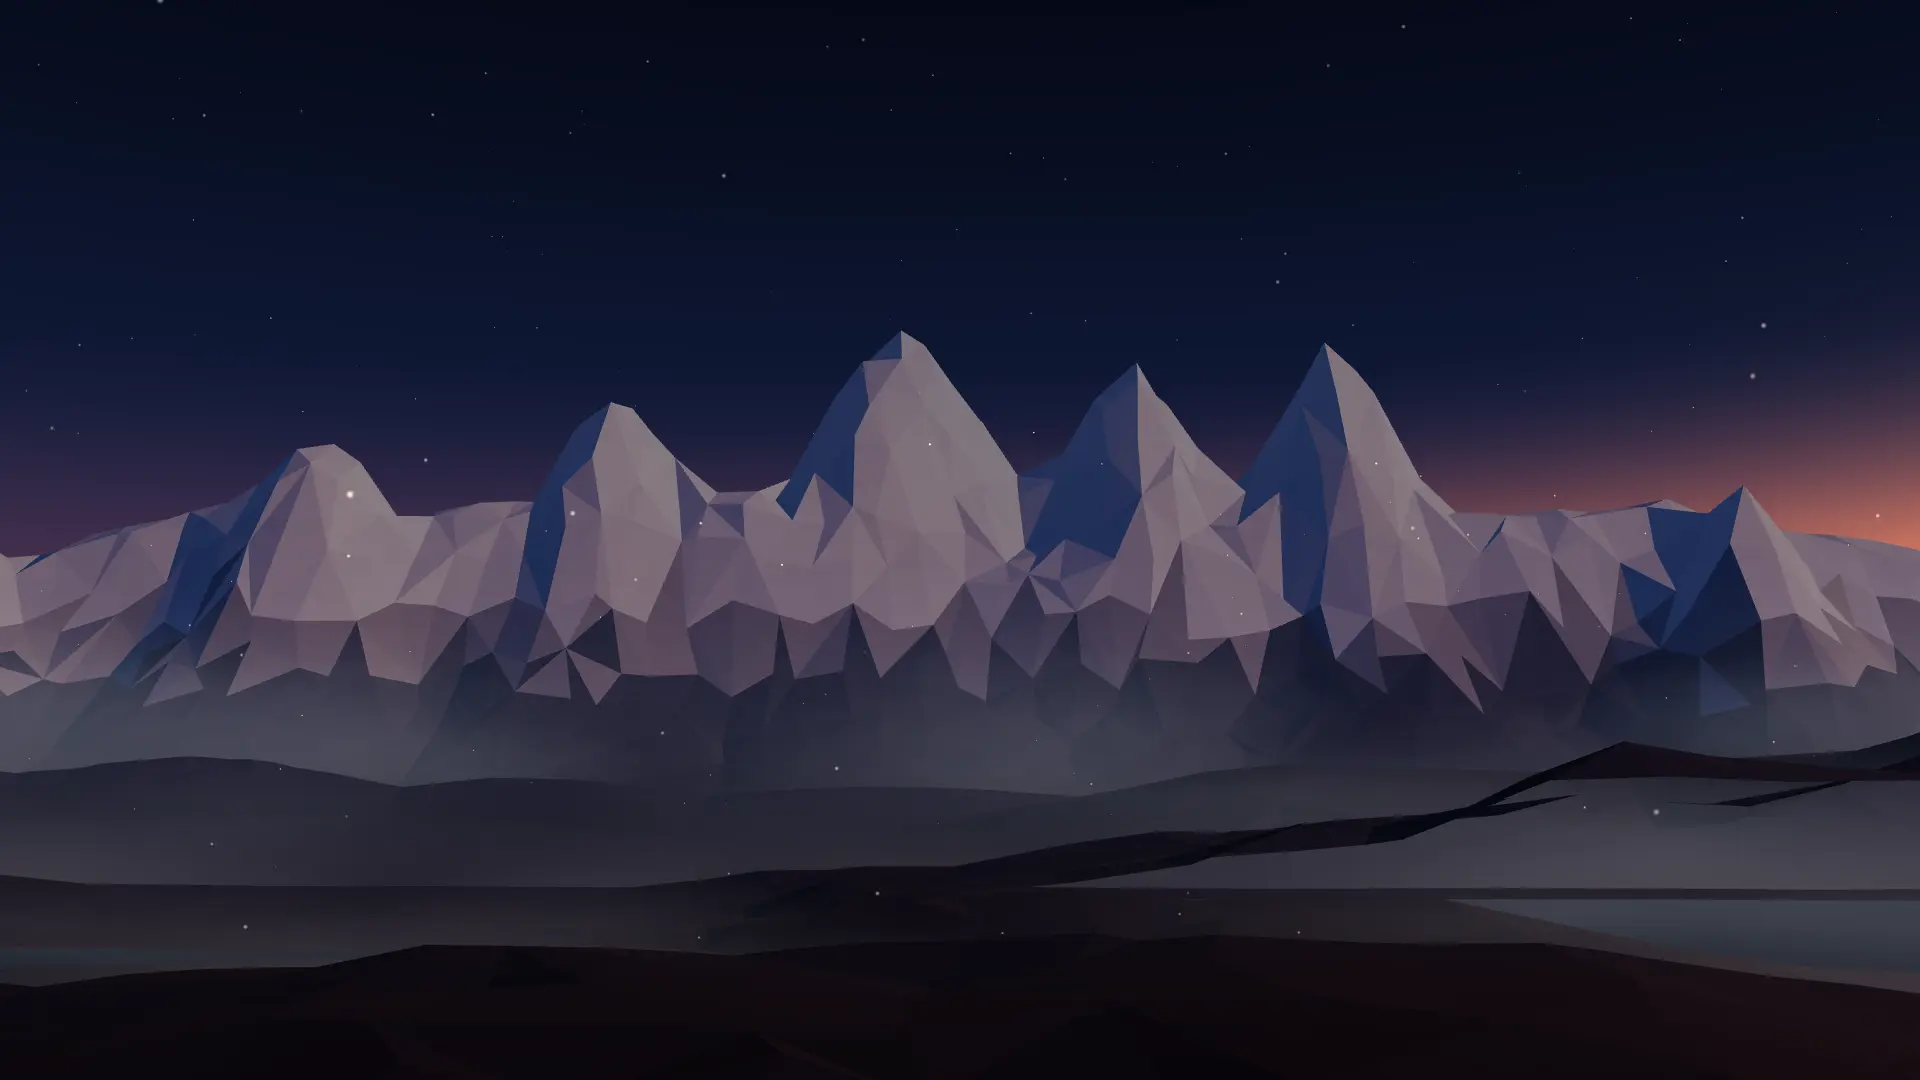
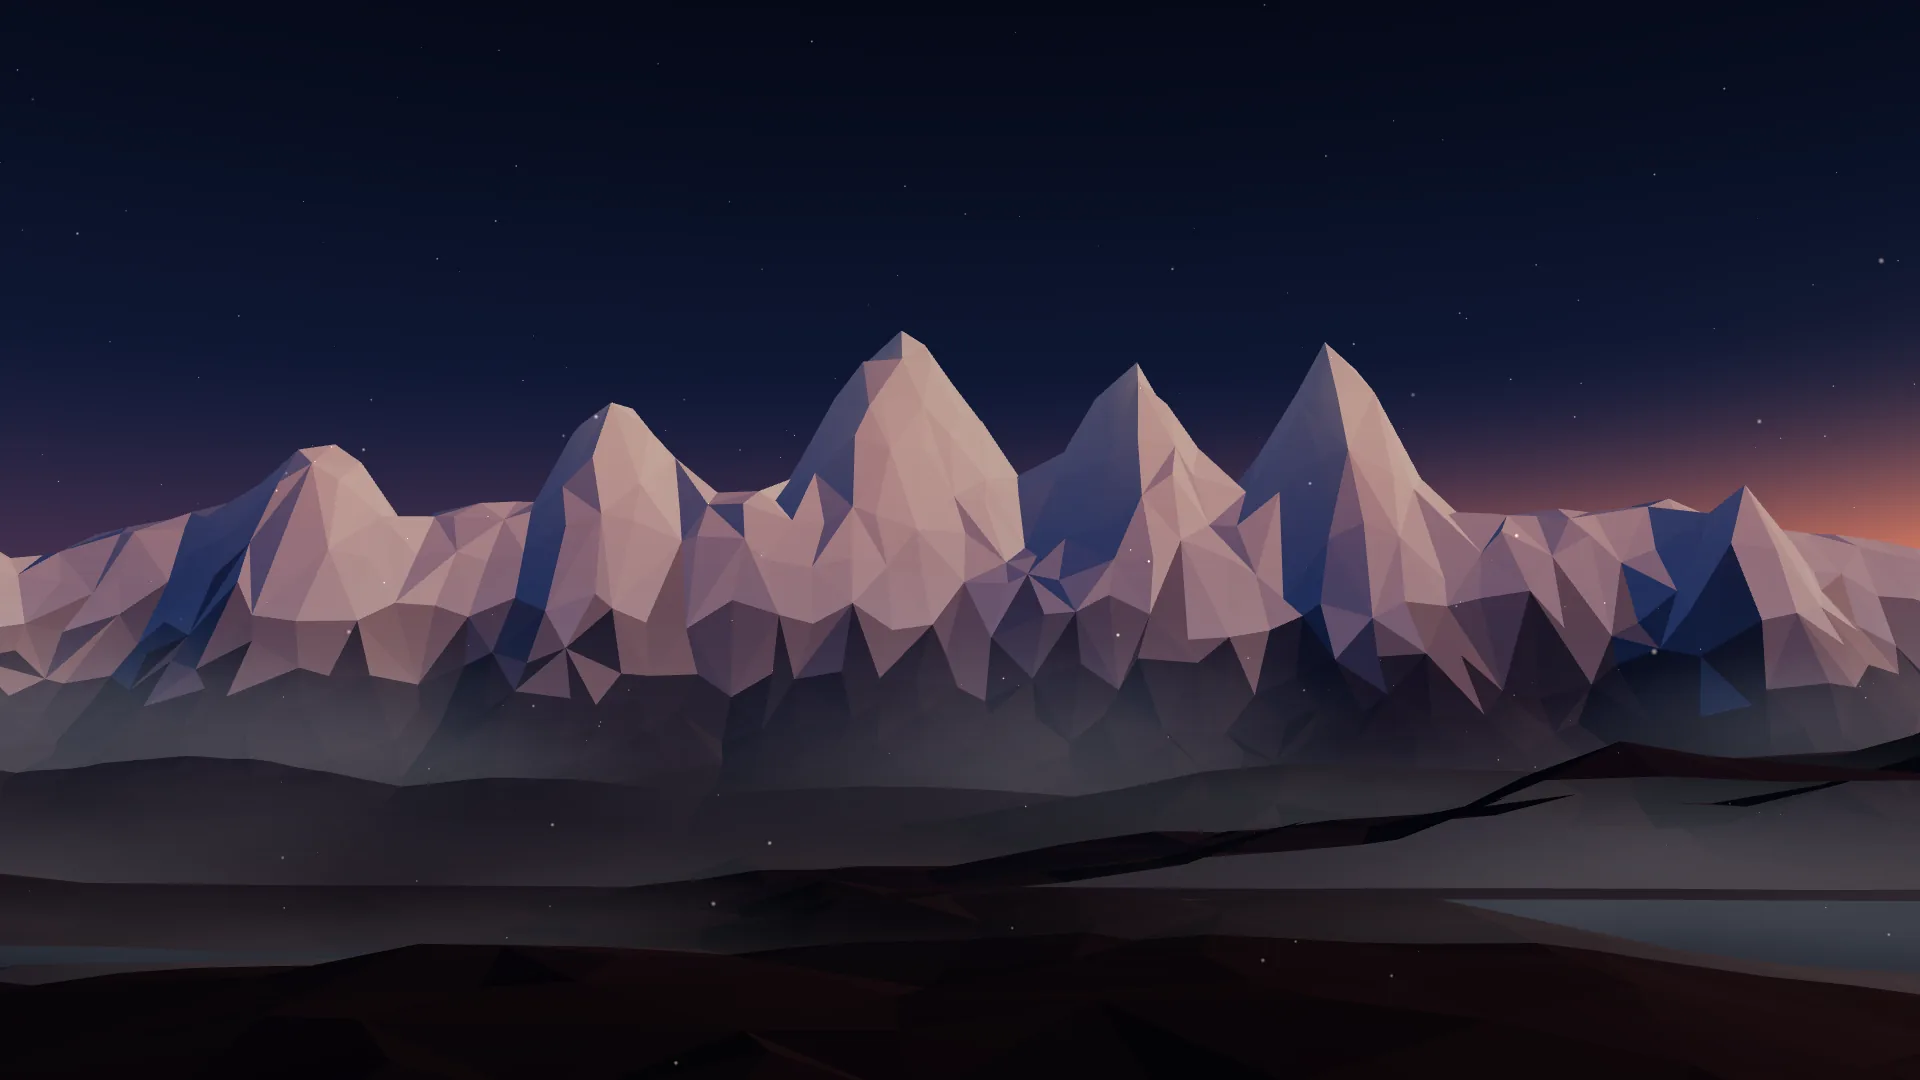
Polish design: dawn alpenglow, live badge, softer section blends, scroll reveals
- Warm alpenglow grade on the summits and thinner fog in the hero scene
- New hero posters captured from the updated scene
- 'Now live: Hotel Teesta' badge above the headline
- Sections fade into each other instead of meeting at hard lines
- CSS scroll-driven reveals for headings and cards (no JS)
- Redrawn How it works mountain so it no longer cuts off
- New founder card, glowing primary buttons, no wrap on Send enquiry
- Fix mobile horizontal overflow and add image qualities config

Changed region(s): [[0.125, 0.3056, 1.0, 0.6417], [0.0, 0.4889, 0.0938, 0.6417], [0.7812, 0.7028, 0.8125, 0.7333]]

diff --git a/components/sections/HowItWorks.tsx b/components/sections/HowItWorks.tsx
@@ -22,13 +22,17 @@ const steps = [
   },
 ];
 
-// A trekking route from base camp to summit. The three camps mark the steps.
-const TRAIL = "M20 300 C 90 290, 120 230, 170 220 S 260 200, 290 150 S 350 70, 420 40";
+// A trekking route from base camp to summit. The three camps mark the steps
+// and sit on the ridge line drawn below.
+const TRAIL = "M34 292 C 80 286, 112 250, 150 238 S 222 214, 252 176 S 318 120, 352 98 S 392 62, 404 50";
 const CAMPS = [
-  { x: 20, y: 300 },
-  { x: 290, y: 150 },
-  { x: 420, y: 40 },
+  { x: 34, y: 292 },
+  { x: 252, y: 176 },
+  { x: 404, y: 50 },
 ];
+const RIDGE_FAR = "M-40 260 L60 210 L110 228 L190 160 L240 186 L330 120 L380 150 L440 110 L500 190 L560 320 L-40 320Z";
+const RIDGE = "M-40 320 L-40 310 L60 270 L118 226 L160 246 L262 150 L300 170 L404 40 L452 104 L500 190 L560 320Z";
+const SNOW = "M262 150 L282 162 L270 166 L258 158 L250 164Z M404 40 L424 68 L410 64 L400 72 L392 58Z";
 
 export function HowItWorks() {
   const root = useRef<HTMLElement>(null);
@@ -79,24 +83,44 @@ export function HowItWorks() {
           <SectionHeading id="process-title" eyebrow="How it works" title="Three steps to the summit" />
 
           <div className="mt-12 grid items-center gap-12 md:grid-cols-2">
-            <svg viewBox="0 0 440 320" className="hidden w-full md:block" aria-hidden="true">
+            <svg viewBox="0 0 440 320" className="hidden w-full overflow-visible md:block" aria-hidden="true">
               <defs>
                 <linearGradient id="ridge" x1="0" y1="0" x2="0" y2="1">
-                  <stop offset="0" stopColor="#1a2a4d" />
+                  <stop offset="0" stopColor="#22355f" />
                   <stop offset="1" stopColor="#050b18" />
                 </linearGradient>
+                <linearGradient id="ridge-far" x1="0" y1="0" x2="0" y2="1">
+                  <stop offset="0" stopColor="#14213f" />
+                  <stop offset="1" stopColor="#050b18" />
+                </linearGradient>
+                <radialGradient id="dawn">
+                  <stop offset="0" stopColor="#ff8a3d" stopOpacity="0.28" />
+                  <stop offset="1" stopColor="#ff8a3d" stopOpacity="0" />
+                </radialGradient>
+                <linearGradient id="fade-b" x1="0" y1="0" x2="0" y2="1">
+                  <stop offset="0.6" stopColor="#fff" />
+                  <stop offset="1" stopColor="#000" />
+                </linearGradient>
+                <mask id="fade" maskUnits="userSpaceOnUse" x="-60" y="-20" width="640" height="340">
+                  <rect x="-60" y="-20" width="640" height="340" fill="url(#fade-b)" />
+                </mask>
               </defs>
-              <path d="M0 320 L120 200 L170 230 L300 110 L340 140 L420 30 L440 50 L440 320 Z" fill="url(#ridge)" />
-              <path d="M300 110 L320 125 L310 128 L298 120 Z M420 30 L432 42 L418 44 Z" fill="#f4f7fb" opacity="0.8" />
-              <path d={TRAIL} fill="none" stroke="#2a3d66" strokeWidth="2" strokeDasharray="4 6" />
+              <circle cx="390" cy="120" r="170" fill="url(#dawn)" />
+              <g mask="url(#fade)">
+                <path d={RIDGE_FAR} fill="url(#ridge-far)" />
+                <path d={RIDGE} fill="url(#ridge)" />
+                <path d={SNOW} fill="#f4f7fb" opacity="0.85" />
+              </g>
+              <path d={TRAIL} fill="none" stroke="#2a3d66" strokeWidth="2" strokeDasharray="3 6" strokeLinecap="round" />
               <path data-trail d={TRAIL} fill="none" stroke="#ff8a3d" strokeWidth="3" strokeLinecap="round" />
               {CAMPS.map((c, i) => (
                 <g key={i} data-camp transform={`translate(${c.x} ${c.y})`}>
+                  <circle r="16" fill="#ff8a3d" opacity="0.12" />
                   <circle r="10" fill="#050b18" stroke="#ff8a3d" strokeWidth="2" />
                   <text y="4" textAnchor="middle" fontSize="10" fill="#f4f7fb" fontWeight="700">
                     {i + 1}
                   </text>
-                  <text x={i === 2 ? -16 : 16} y={i === 2 ? 4 : -14} textAnchor={i === 2 ? "end" : "start"} fontSize="12" fill="#b9c5da">
+                  <text x={i === 0 ? 0 : -20} y={i === 0 ? 30 : 5} textAnchor={i === 0 ? "start" : "end"} fontSize="13" fontWeight="600" fill="#f4f7fb">
                     {steps[i].name}
                   </text>
                 </g>

diff --git a/components/sections/About.tsx b/components/sections/About.tsx
@@ -10,20 +10,38 @@ const shipLog = [
 
 export function About() {
   return (
-    <section id="about" aria-labelledby="about-title" className="scroll-mt-20 py-24 md:py-36">
+    <section id="about" aria-labelledby="about-title" className="scroll-mt-20 overflow-hidden py-24 md:py-36">
       <div className="container-x grid items-center gap-12 md:grid-cols-[0.8fr_1.2fr] md:gap-20">
-        <figure className="relative mx-auto w-full max-w-sm">
-          <div className="relative aspect-[4/5] overflow-hidden rounded-[2rem] border border-white/10 bg-[radial-gradient(ellipse_at_60%_10%,#ffb37f33,transparent_55%),linear-gradient(180deg,#1a2a4d,#050b18)]">
+        <figure className="reveal relative mx-auto w-full max-w-sm">
+          <div aria-hidden="true" className="absolute -inset-6 rounded-[2.5rem] bg-ember/10 blur-3xl" />
+          <div className="relative aspect-[4/5] overflow-hidden rounded-[2rem] border border-white/10 bg-[linear-gradient(180deg,#0a1428,#1a2a4d_55%,#2a2440_75%,#050b18)]">
             {/* Swap for a portrait: public/about/upesh.webp */}
-            <svg viewBox="0 0 400 500" className="absolute inset-0 h-full w-full" aria-hidden="true">
-              <path d="M0 380 L90 300 L140 330 L230 240 L280 280 L400 200 L400 500 L0 500Z" fill="#0a1428" />
-              <path d="M230 240 L250 258 L238 262 L226 252Z M400 200 L380 214 L392 218Z" fill="#f4f7fb" opacity="0.7" />
+            <svg viewBox="0 0 400 500" className="absolute inset-0 h-full w-full" preserveAspectRatio="xMidYMax slice" aria-hidden="true">
+              <defs>
+                <radialGradient id="about-sun" cx="0.7" cy="0.62" r="0.45">
+                  <stop offset="0" stopColor="#ffb37f" stopOpacity="0.55" />
+                  <stop offset="0.5" stopColor="#ff8a3d" stopOpacity="0.12" />
+                  <stop offset="1" stopColor="#ff8a3d" stopOpacity="0" />
+                </radialGradient>
+              </defs>
+              <rect width="400" height="500" fill="url(#about-sun)" />
+              <path d="M0 330 L70 280 L120 300 L210 205 L250 235 L300 190 L400 270 L400 500 L0 500Z" fill="#22355f" />
+              <path d="M210 205 L232 224 L218 226 L206 216 L196 222Z M300 190 L322 208 L308 206 L298 214 L290 202Z" fill="#f4f7fb" opacity="0.85" />
+              <path d="M0 380 L90 330 L150 352 L240 300 L320 340 L400 310 L400 500 L0 500Z" fill="#101d38" />
+              <path d="M0 430 L110 400 L200 420 L300 392 L400 420 L400 500 L0 500Z" fill="#050b18" />
             </svg>
-            <span className="absolute inset-0 grid place-items-center font-display text-8xl text-snow/90" aria-hidden="true">
-              UB
-            </span>
+            <div className="absolute inset-x-0 top-0 p-8">
+              <span className="font-display text-7xl leading-none text-snow" aria-hidden="true">
+                UB
+              </span>
+              <span className="mt-3 block h-px w-12 bg-ember" aria-hidden="true" />
+            </div>
+            <div className="absolute inset-x-0 bottom-0 p-8">
+              <p className="text-xs uppercase tracking-[0.22em] text-haze">Founder</p>
+              <p className="mt-1 font-display text-2xl text-snow">Upesh Bishwakarma</p>
+            </div>
           </div>
-          <figcaption className="mt-4 text-center text-sm text-haze">Upesh Bishwakarma, founder</figcaption>
+          <figcaption className="sr-only">Upesh Bishwakarma, founder of GorkhayAI</figcaption>
         </figure>
 
         <div>

diff --git a/components/hero/MountainScene.tsx b/components/hero/MountainScene.tsx
@@ -8,6 +8,7 @@ import { heroStore } from "@/lib/heroStore";
 
 const MODEL_URL = "/models/kanchenjunga.glb";
 const DRACO_PATH = "/draco/";
+const SUN_DIR = new THREE.Vector3(0.75, 0.12, -0.65);
 
 /* ------------------------------------------------------------------ Sky -- */
 
@@ -63,16 +64,39 @@ function Sky({ sunDir }: { sunDir: THREE.Vector3 }) {
 
 function Range() {
   const { scene } = useGLTF(MODEL_URL, DRACO_PATH);
-  const material = useMemo(
-    () =>
-      new THREE.MeshStandardMaterial({
-        vertexColors: true,
-        flatShading: true,
-        roughness: 0.92,
-        metalness: 0,
-      }),
-    [],
-  );
+  const material = useMemo(() => {
+    const m = new THREE.MeshStandardMaterial({
+      vertexColors: true,
+      flatShading: true,
+      roughness: 0.92,
+      metalness: 0,
+    });
+    // Alpenglow: the summits catch first light before the valleys do. Slopes
+    // facing the low sun are graded warmer with height; the valleys stay blue.
+    m.onBeforeCompile = (shader) => {
+      shader.vertexShader = shader.vertexShader
+        .replace("#include <common>", "#include <common>\nvarying vec3 vWorldPos;\nvarying vec3 vWorldNormal;")
+        .replace(
+          "#include <worldpos_vertex>",
+          "#include <worldpos_vertex>\nvWorldPos = (modelMatrix * vec4(transformed, 1.0)).xyz;\nvWorldNormal = normalize(mat3(modelMatrix) * objectNormal);",
+        );
+      shader.fragmentShader = shader.fragmentShader
+        .replace(
+          "#include <common>",
+          "#include <common>\nvarying vec3 vWorldPos;\nvarying vec3 vWorldNormal;",
+        )
+        .replace(
+          "#include <opaque_fragment>",
+          `float glowH = smoothstep(7.0, 26.0, vWorldPos.y);
+          float facing = clamp(dot(normalize(vWorldNormal), normalize(vec3(0.85, 0.35, 0.4))), 0.0, 1.0);
+          vec3 glowCol = mix(vec3(1.0, 0.42, 0.45), vec3(1.0, 0.70, 0.45), glowH);
+          float k = glowH * (0.35 + 0.65 * facing);
+          outgoingLight = mix(outgoingLight, outgoingLight * vec3(1.65, 0.88, 0.7) + glowCol * 0.16, k);
+          #include <opaque_fragment>`,
+        );
+    };
+    return m;
+  }, []);
 
   useEffect(() => {
     scene.traverse((obj) => {
@@ -304,8 +328,6 @@ function CameraRig() {
 
 /* ---------------------------------------------------------------- Scene -- */
 
-const SUN_DIR = new THREE.Vector3(0.75, 0.12, -0.65);
-
 /** Fires once a few frames after the model is on screen, so the poster can fade out. */
 function ReadySignal({ onReady }: { onReady: () => void }) {
   const frames = useRef(0);
@@ -319,11 +341,11 @@ function ReadySignal({ onReady }: { onReady: () => void }) {
 export function MountainScene({ particleCount, onReady }: { particleCount: number; onReady: () => void }) {
   return (
     <>
-      <fogExp2 attach="fog" args={["#1b2747", 0.0095]} />
+      <fogExp2 attach="fog" args={["#1b2747", 0.0062]} />
       <Sky sunDir={SUN_DIR} />
       <hemisphereLight args={["#5d74ad", "#0a1428", 0.5]} />
       {/* Alpenglow: a low, warm key light raking the east faces. */}
-      <directionalLight position={[90, 24, 25]} intensity={4.4} color="#ffb08f" />
+      <directionalLight position={[90, 18, 20]} intensity={4.8} color="#ffa985" />
       <directionalLight position={[-60, 40, 40]} intensity={0.35} color="#9db4ff" />
       <Range />
       <FogBanks />

diff --git a/components/sections/Services.tsx b/components/sections/Services.tsx
@@ -30,8 +30,8 @@ const services = [
 
 export function Services() {
   return (
-    <section id="services" aria-labelledby="services-title" className="relative scroll-mt-20 overflow-hidden bg-navy-900 py-24 md:py-36">
-      <div aria-hidden="true" className="pointer-events-none absolute -right-40 top-0 h-[480px] w-[480px] rounded-full bg-ember/10 blur-[120px]" />
+    <section id="services" aria-labelledby="services-title" className="relative scroll-mt-20 overflow-hidden band py-24 md:py-36">
+      <div aria-hidden="true" className="pointer-events-none absolute -right-40 top-1/4 h-[480px] w-[480px] rounded-full bg-ember/10 blur-[120px]" />
       <div className="container-x relative">
         <SectionHeading
           id="services-title"
@@ -42,9 +42,9 @@ export function Services() {
 
         <ul className="mt-14 grid gap-5 sm:grid-cols-2 lg:grid-cols-4">
           {services.map((s, i) => (
-            <li key={s.name} className="h-full">
+            <li key={s.name} className="reveal h-full">
               <TiltCard className="h-full rounded-3xl">
-                <article className="glass flex h-full flex-col rounded-3xl p-6" style={{ transform: "translateZ(30px)" }}>
+                <article className="glass flex h-full flex-col rounded-3xl p-6 transition-colors duration-300 hover:border-ember/40" style={{ transform: "translateZ(30px)" }}>
                   <div className="flex items-center justify-between">
                     <span className="grid h-12 w-12 place-items-center rounded-2xl bg-ember/12 text-ember">
                       <svg width="24" height="24" viewBox="0 0 24 24" fill="none" stroke="currentColor" strokeWidth="1.6" strokeLinecap="round" strokeLinejoin="round" aria-hidden="true">

diff --git a/app/globals.css b/app/globals.css
@@ -80,6 +80,17 @@
   }
 }
 
+@keyframes reveal-up {
+  from {
+    opacity: 0;
+    transform: translateY(36px);
+  }
+  to {
+    opacity: 1;
+    transform: none;
+  }
+}
+
 @layer components {
   .container-x {
     margin-inline: auto;
@@ -136,9 +147,15 @@
   .btn-primary {
     background: var(--color-ember);
     color: var(--color-night);
+    box-shadow:
+      0 0 0 1px rgb(255 138 61 / 0.4),
+      0 12px 32px -12px rgb(255 138 61 / 0.7);
   }
   .btn-primary:hover {
     background: var(--color-ember-soft);
+    box-shadow:
+      0 0 0 1px rgb(255 179 127 / 0.5),
+      0 16px 40px -12px rgb(255 138 61 / 0.85);
   }
   .btn-ghost {
     border: 1px solid rgb(244 247 251 / 0.3);
@@ -147,6 +164,35 @@
   .btn-ghost:hover {
     border-color: var(--color-snow);
     background: rgb(244 247 251 / 0.06);
+  }
+
+  /* A lighter band of navy that fades in and out, so sections never meet at a hard line. */
+  .band {
+    background: linear-gradient(
+      180deg,
+      var(--color-night) 0%,
+      var(--color-navy-900) 14%,
+      var(--color-navy-900) 86%,
+      var(--color-night) 100%
+    );
+  }
+
+  /* Hairline with a warm centre, used between sections. */
+  .rule-glow {
+    height: 1px;
+    background: linear-gradient(90deg, transparent, rgb(255 138 61 / 0.35), transparent);
+  }
+
+  /* Scroll-linked reveal with no JavaScript. Browsers without scroll timelines
+     simply show the content. */
+  @supports (animation-timeline: view()) {
+    @media (prefers-reduced-motion: no-preference) {
+      .reveal {
+        animation: reveal-up linear both;
+        animation-timeline: view();
+        animation-range: entry 0% entry 55%;
+      }
+    }
   }
 
   .grain::after {

diff --git a/components/hero/Hero.tsx b/components/hero/Hero.tsx
@@ -113,6 +113,17 @@ export function Hero() {
       <div className="pointer-events-none absolute inset-y-0 left-0 w-full bg-gradient-to-r from-night/80 via-night/20 to-transparent md:w-2/3" />
 
       <div data-hero-copy className="container-x relative z-10">
+        <a
+          href="#work"
+          className="hero-reveal group mb-7 inline-flex items-center gap-2.5 rounded-full border border-white/10 bg-white/[0.04] py-1.5 pl-2 pr-4 text-sm text-mist backdrop-blur-md transition-colors hover:border-ember/40 hover:text-snow"
+        >
+          <span className="relative flex h-2 w-2" aria-hidden="true">
+            <span className="absolute inline-flex h-full w-full animate-ping rounded-full bg-emerald-400 opacity-60 motion-reduce:hidden" />
+            <span className="relative inline-flex h-2 w-2 rounded-full bg-emerald-400" />
+          </span>
+          Now live: Hotel Teesta, Darjeeling
+          <span aria-hidden="true" className="transition-transform group-hover:translate-x-0.5">→</span>
+        </a>
         <p className="hero-reveal eyebrow">
           AI studio · Darjeeling, India
         </p>

diff --git a/components/sections/Insights.tsx b/components/sections/Insights.tsx
@@ -7,7 +7,7 @@ export async function Insights() {
   const posts = (await getPosts()).slice(0, 6);
 
   return (
-    <section id="insights" aria-labelledby="insights-title" className="scroll-mt-20 bg-navy-900/40 py-24 md:py-36">
+    <section id="insights" aria-labelledby="insights-title" className="band scroll-mt-20 py-24 md:py-36">
       <div className="container-x">
         <div className="flex flex-col justify-between gap-6 md:flex-row md:items-end">
           <SectionHeading
@@ -22,7 +22,7 @@ export async function Insights() {
         </div>
         <ul className="mt-14 grid gap-5 md:grid-cols-2 lg:grid-cols-3">
           {posts.map((post) => (
-            <li key={post.slug}>
+            <li key={post.slug} className="reveal">
               <PostCard post={post} />
             </li>
           ))}

diff --git a/components/sections/Contact.tsx b/components/sections/Contact.tsx
@@ -4,8 +4,8 @@ import { ContactForm } from "./ContactForm";
 
 export function Contact() {
   return (
-    <section id="contact" aria-labelledby="contact-title" className="relative scroll-mt-20 overflow-hidden bg-navy-900 py-24 md:py-36">
-      <div aria-hidden="true" className="pointer-events-none absolute -left-40 bottom-0 h-[420px] w-[420px] rounded-full bg-ember/10 blur-[120px]" />
+    <section id="contact" aria-labelledby="contact-title" className="relative scroll-mt-20 overflow-hidden band py-24 md:py-36">
+      <div aria-hidden="true" className="pointer-events-none absolute -left-40 bottom-1/4 h-[420px] w-[420px] rounded-full bg-ember/10 blur-[120px]" />
       <div className="container-x relative grid gap-12 lg:grid-cols-[0.9fr_1.1fr] lg:gap-16">
         <div>
           <SectionHeading

diff --git a/components/sections/PostCard.tsx b/components/sections/PostCard.tsx
@@ -3,7 +3,7 @@ import { formatDate, type PostMeta } from "@/lib/content";
 
 export function PostCard({ post }: { post: PostMeta }) {
   return (
-    <article className="group relative flex h-full flex-col rounded-3xl border border-white/10 bg-navy-900 p-6 transition-colors hover:border-ember/50 md:p-7">
+    <article className="group relative flex h-full flex-col rounded-3xl border border-white/10 bg-night/60 p-6 transition-colors hover:border-ember/50 md:p-7">
       <div className="flex items-center gap-3 text-xs">
         <span className={`rounded-full px-2.5 py-1 font-semibold ${post.category === "Tool review" ? "bg-ember/15 text-ember-soft" : "bg-white/8 text-mist"}`}>
           {post.category}

diff --git a/components/sections/ContactForm.tsx b/components/sections/ContactForm.tsx
@@ -171,7 +171,7 @@ export function ContactForm() {
         <p id={`${id}-note`} className="text-xs text-haze">
           Add a phone number or email so we can reply. We never share your details.
         </p>
-        <button type="submit" className="btn btn-primary" disabled={status.state === "sending"}>
+        <button type="submit" className="btn btn-primary shrink-0 whitespace-nowrap" disabled={status.state === "sending"}>
           {status.state === "sending" ? "Sending…" : "Send enquiry"}
         </button>
       </div>

diff --git a/components/ui/SectionHeading.tsx b/components/ui/SectionHeading.tsx
@@ -12,7 +12,7 @@ export function SectionHeading({
   align?: "left" | "center";
 }) {
   return (
-    <div className={align === "center" ? "mx-auto max-w-2xl text-center" : "max-w-2xl"}>
+    <div className={align === "center" ? "reveal mx-auto max-w-2xl text-center" : "reveal max-w-2xl"}>
       <p className="eyebrow">{eyebrow}</p>
       <h2 id={id} className="h-display mt-4 text-4xl md:text-5xl">
         {title}

diff --git a/next.config.ts b/next.config.ts
@@ -4,6 +4,7 @@ const nextConfig: NextConfig = {
   reactStrictMode: true,
   images: {
     formats: ["image/avif", "image/webp"],
+    qualities: [75, 80],
     // Live screenshot of the Hotel Teesta site for the case study.
     remotePatterns: [
       { protocol: "https", hostname: "api.microlink.io" },
